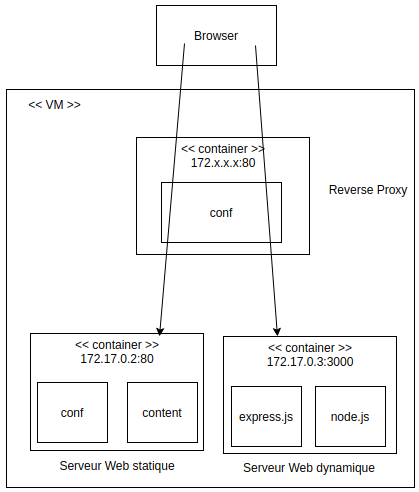
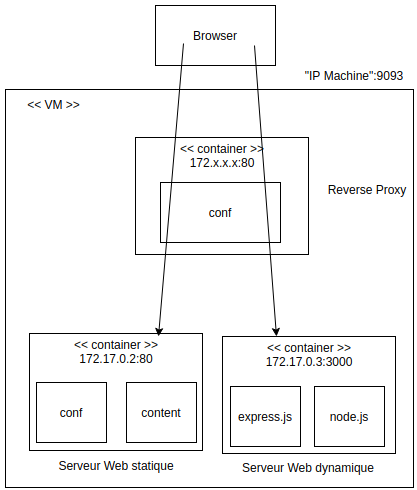
Etape 5 terminée

diff --git a/docker-images/etape5/apache-reverse-proxy-image/templates/config-template.php b/docker-images/etape5/apache-reverse-proxy-image/templates/config-template.php
@@ -1,0 +1,14 @@
+<?php
+    $static_app = getenv('STATIC_APP');
+    $dynamic_app = getenv('DYNAMIC_APP');
+?>
+
+<VirtualHost *:80>
+    ServerName dices.res.ch
+    
+    ProxyPass '/api/dices/' 'http://<?php print "$dynamic_app"?>/'
+    ProxyPassReverse '/api/dices/' 'http://<?php print "$dynamic_app"?>/'
+
+    ProxyPass '/' 'http://<?php print "$static_app"?>/'
+    ProxyPassReverse '/' 'http://<?php print "$static_app"?>/'
+</VirtualHost>

diff --git a/README.md b/README.md
@@ -350,7 +350,7 @@ Nous voyons également que l'on reprend le nom de l'image construite (`res-apach
    ```bash
    cd RES_2021_Labo4_HttpInfra/docker-images/etape1-3/apache-reverse-proxy-image
    ./build-images.sh
-   ./run-containers.sh
+   ./run-container.sh
    ```
 
    Il faudra bien vérifier que les adresses IP des containers soient `172.17.0.2` et `172.17.0.3`. C'est la partie fragile de notre implémentation puisque nous ne gérons actuellement pas l'attribution des adresses IP.
@@ -397,7 +397,7 @@ Pour cette quatrième étape, l'infrastructure des images Docker se trouve dans 
 
 #### Fichiers `Dockerfile`
 
-Dans les 3 fichiers Dockerfile des images, cette ligne a été rajoutée afin de pouvoir utiliser l'application nano:
+Dans les 3 fichiers Dockerfile des images, cette ligne a été rajoutée afin de pouvoir utiliser l'application nano et faire des tests directement sur le container:
 
 ```bash
 RUN apt-get update && apt-get install -y nano
@@ -458,7 +458,7 @@ $(function() {
    ```bash
    cd RES_2021_Labo4_HttpInfra/docker-images/etape4/apache-reverse-proxy-image
    ./build-images.sh
-   ./run-containers.sh
+   ./run-container.sh
    ```
 
    La configuration générée est la même qu'à l'étape suivante.
@@ -475,7 +475,74 @@ $(function() {
 
 ### Infrastructure
 
+Pour cette cinquième étape, l'infrastructure des images Docker se trouve dans le répertoire `./docker-images/etape5`.
 
+#### Fichier `apache-reverse-proxy-image/run-container.sh`
+
+La dernière ligne du fichier a été supprimée. Le container reverse proxy doit maintenant être lancé "à la main", à voir dans la démonstration un peu plus bas. C'est grâce à cela que nous pouvons gérer les adresses IP dynamiquement pour effectuer le reverse proxy.
+
+#### Fichier `apache-reverse-proxy-image/templates/config-template.php`
+
+Contenu:
+
+```php
+<?php
+    $static_app = getenv('STATIC_APP');
+    $dynamic_app = getenv('DYNAMIC_APP');
+?>
+
+<VirtualHost *:80>
+    ServerName dices.res.ch
+    
+    ProxyPass '/api/dices/' 'http://<?php print "$dynamic_app"?>/'
+    ProxyPassReverse '/api/dices/' 'http://<?php print "$dynamic_app"?>/'
+
+    ProxyPass '/' 'http://<?php print "$static_app"?>/'
+    ProxyPassReverse '/' 'http://<?php print "$static_app"?>/'
+</VirtualHost>
+```
+
+Ce fichier permet via du PHP de récupérer les variables d'environnement lors du lancement du container et de les insérer dans du texte qui sera récupéré ensuite.
+
+#### Fichier `apache-reverse-proxy-image/apache2-foreground`
+
+Contenu:
+
+```bash
+#!/bin/bash
+set -e
+
+: "${APACHE_CONFDIR:=/etc/apache2}"
+: "${APACHE_ENVVARS:=$APACHE_CONFDIR/envvars}"
+if test -f "$APACHE_ENVVARS"; then
+	. "$APACHE_ENVVARS"
+fi
+
+# Apache gets grumpy about PID files pre-existing
+: "${APACHE_RUN_DIR:=/var/run/apache2}"
+: "${APACHE_PID_FILE:=$APACHE_RUN_DIR/apache2.pid}"
+rm -f "$APACHE_PID_FILE"
+
+echo "Setup for the RES lab"
+echo "Static App URL: $STATIC_APP"
+echo "Dynamic App URL: $DYNAMIC_APP"
+php /var/apache2/templates/config-template.php > /etc/apache2/sites-available/001-reverse-proxy.conf
+rm -f /var/run/apache2/apache2.pid
+exec apache2 -DFOREGROUND
+```
+
+Ce fichier a été créé afin de récupérer la configuration générée par le fichier PHP et de la mettre dans le fichier de configuration du reverse proxy.
+
+#### Fichier `apache-reverse-proxy-image/Dockerfile`
+
+Deux lignes ont été rajoutées dans ce fichiers:
+
+```bash
+COPY apache2-foreground /usr/local/bin/
+COPY templates /var/apache2/templates
+```
+
+Elles permettent d'aller coper les 2 fichiers créés dans cette étape dans le container directement.
 
 ### Démonstration
 
@@ -494,4 +561,39 @@ $(function() {
    docker rm `docker ps -qa`
    ```
 
-3. 
+3. Relancer les 3 containers après avoir recréé les images
+
+   ```bash
+   cd RES_2021_Labo4_HttpInfra/docker-images/etape4/apache-reverse-proxy-image
+   ./build-images.sh
+   ./run-container.sh
+   docker run -d -e STATIC_APP=172.17.0.2:80 -e DYNAMIC_APP=172.17.0.3:3000 -p 9093:80 --name apache-rp res-apache-rp
+   ```
+
+   Vérifier les adresses IP en exécutant la commande ci-dessous et remplacer les si nécessaire:
+
+   ```bash
+   docker inspect apache-static | grep -i ipaddr # Pour la variable STATIC_APP
+   docker inspect express-dynamic | grep -i ipaddr # Pour la variable DYNAMIC_APP
+   ```
+
+   Cela va créer la structure suivante:
+
+   <img src="figures/Structure-Etape5.png" style="text-align:center;" />
+
+4. Accéder au site via un navigateur et observer que le site fonctionne même si les adresses IP sont différentes:
+
+   ![](figures/Etape5-Navigateur.png)
+
+## Bonus 1: Load balancing, plusieurs noeuds de serveur
+
+### Objectifs
+
+
+
+### Infrastructure
+
+
+
+### Démonstration
+
